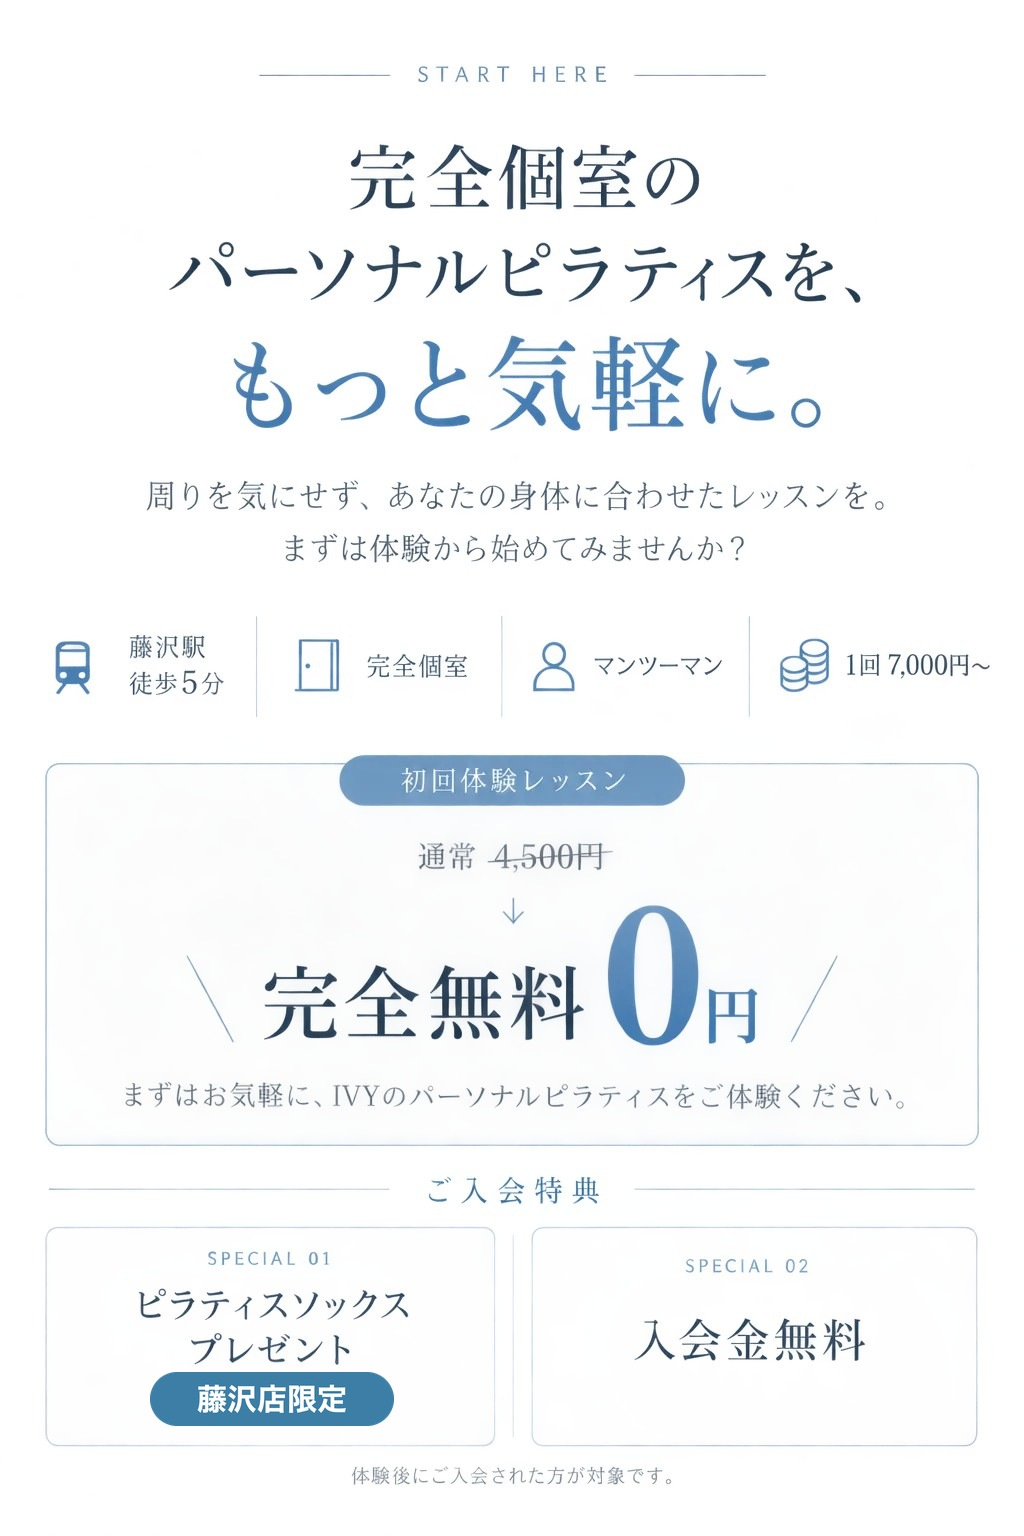
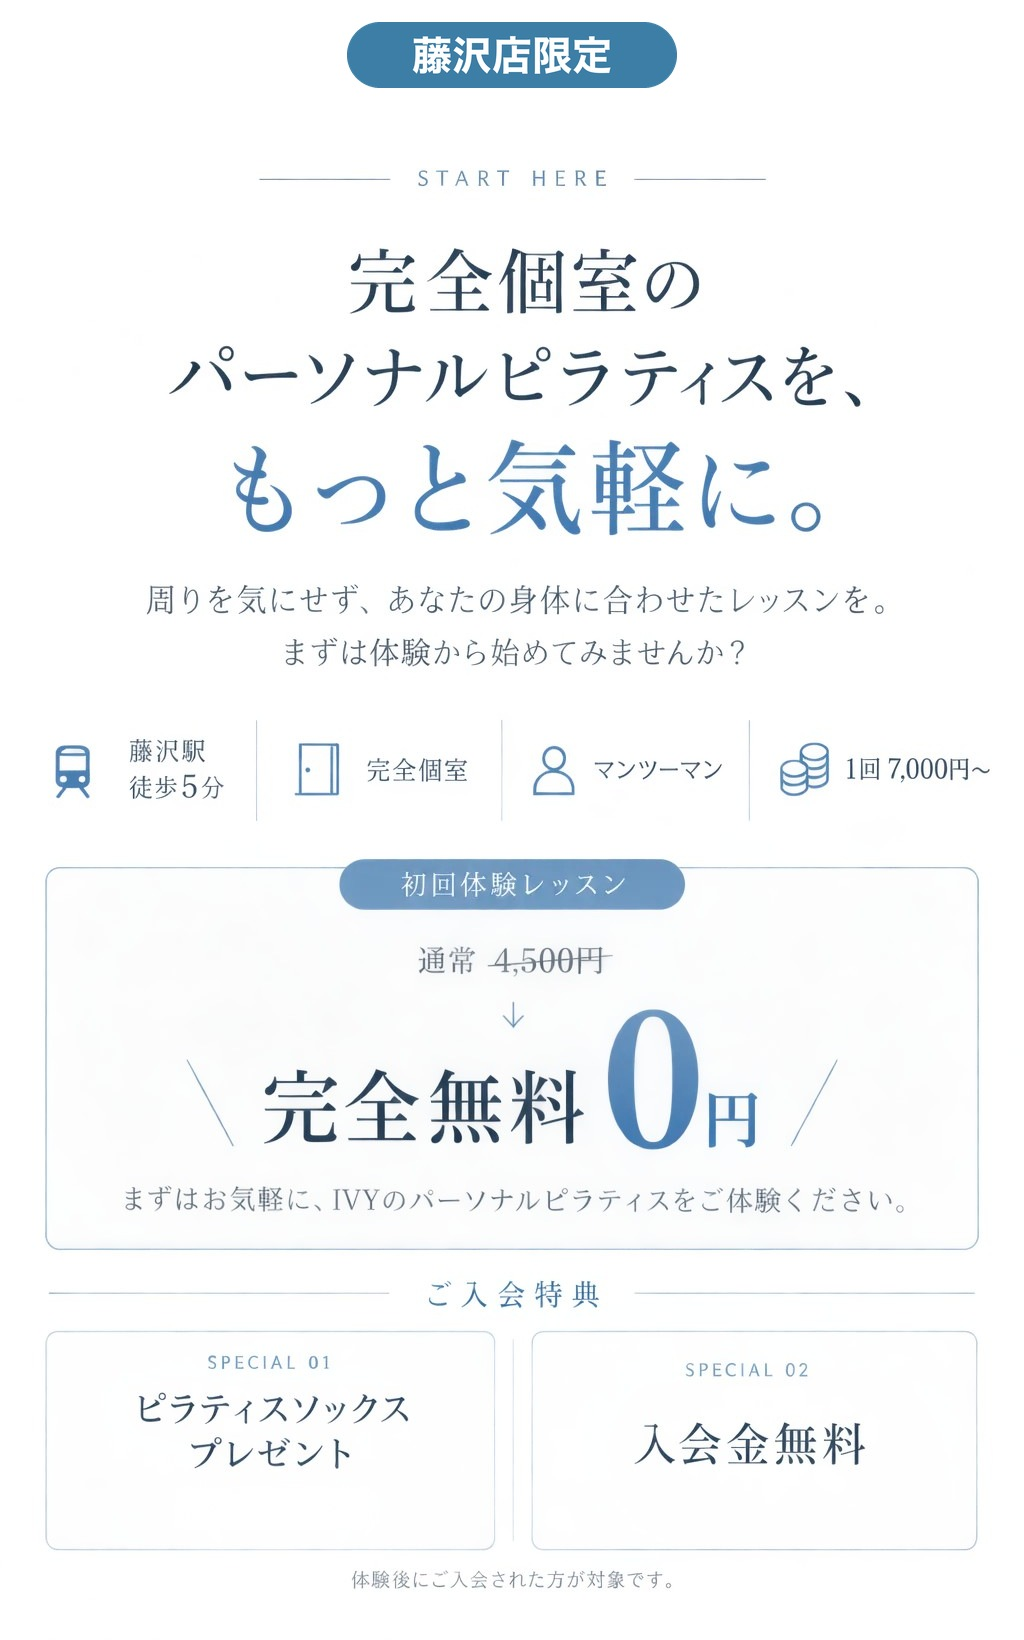
ivy-test: 藤沢店限定をSPECIAL 01から外し、クロージング冒頭のSTART HERE全体のバッジにする

diff --git a/apps/lp/clients/ivy-test/page.tsx b/apps/lp/clients/ivy-test/page.tsx
@@ -892,7 +892,7 @@ export default function Page() {
               ご入会特典は画像に入っている（config の `closing` はデータだけ残置）。
               画像にボタンは無いので、下に実体の <Cta> を置く。 */}
           <div style={{ background: "#FFFFFF", paddingBottom: 48 }}>
-            <FullBleed img={c.closingImage.img} ratio="1024 / 1536" alt={c.closingImage.imgAlt} />
+            <FullBleed img={c.closingImage.img} ratio="1024 / 1640" alt={c.closingImage.imgAlt} />
             <div style={{ padding: "0 24px" }}>
               <Cta marginTop={8} />
             </div>
